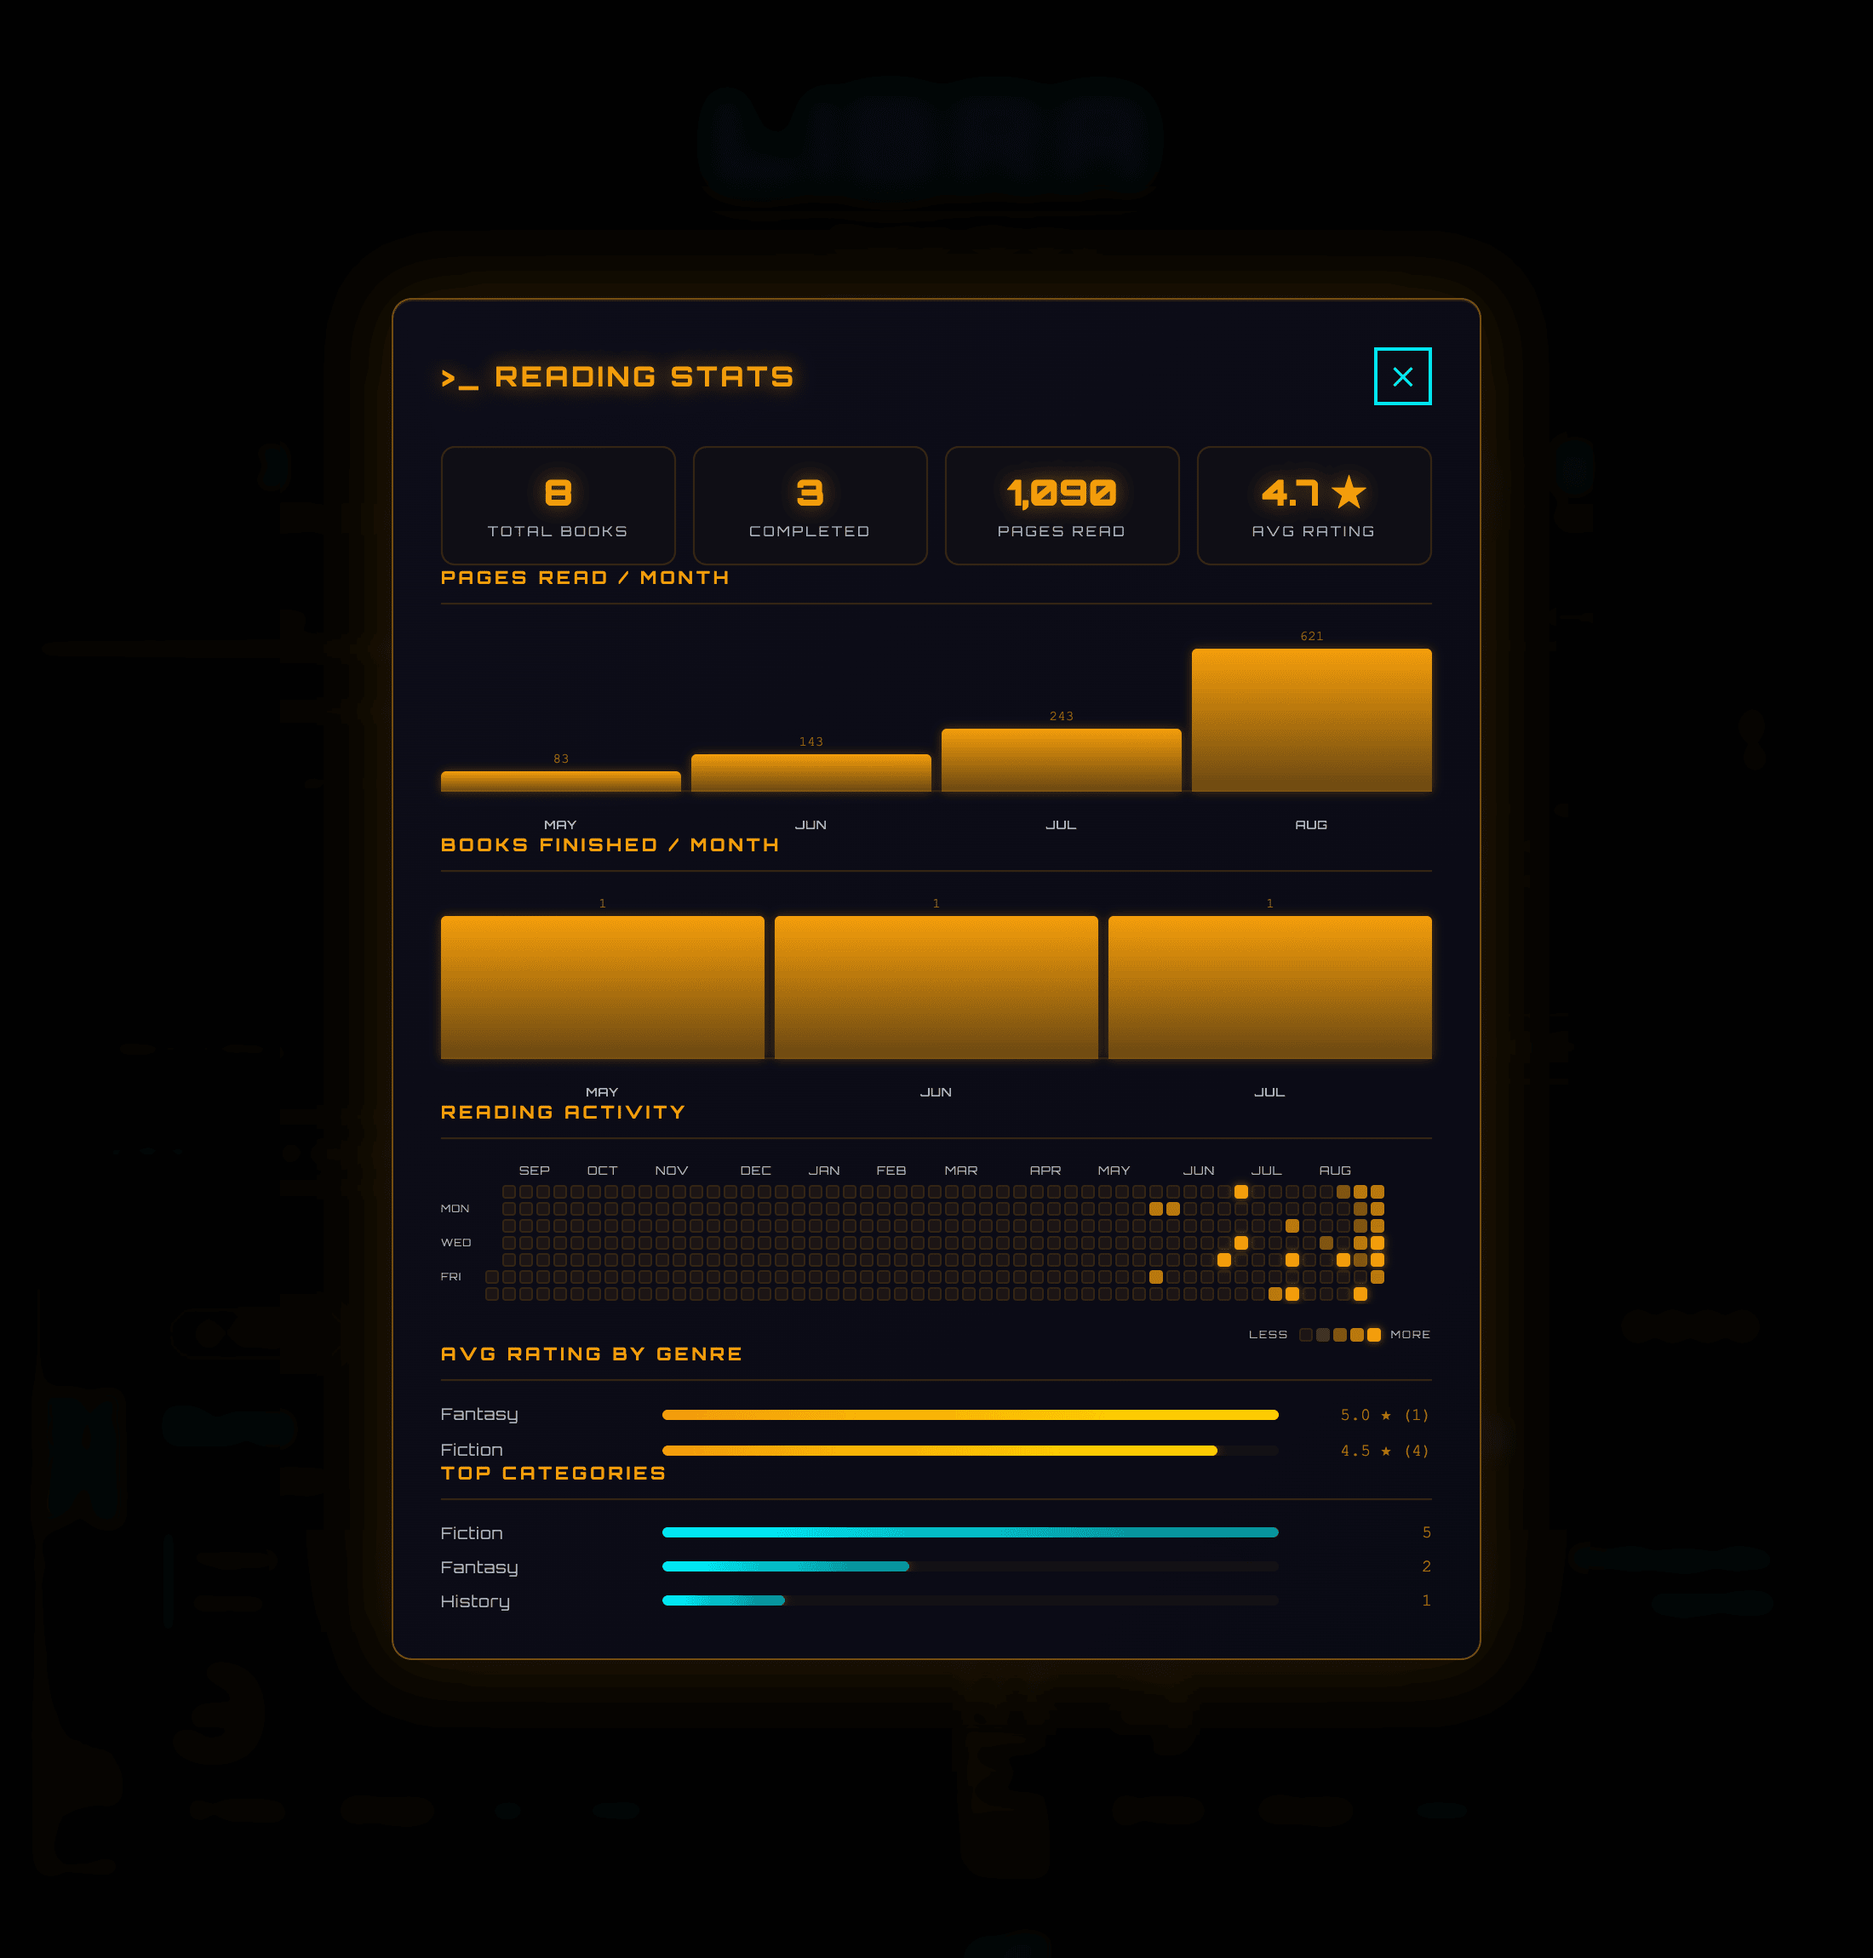
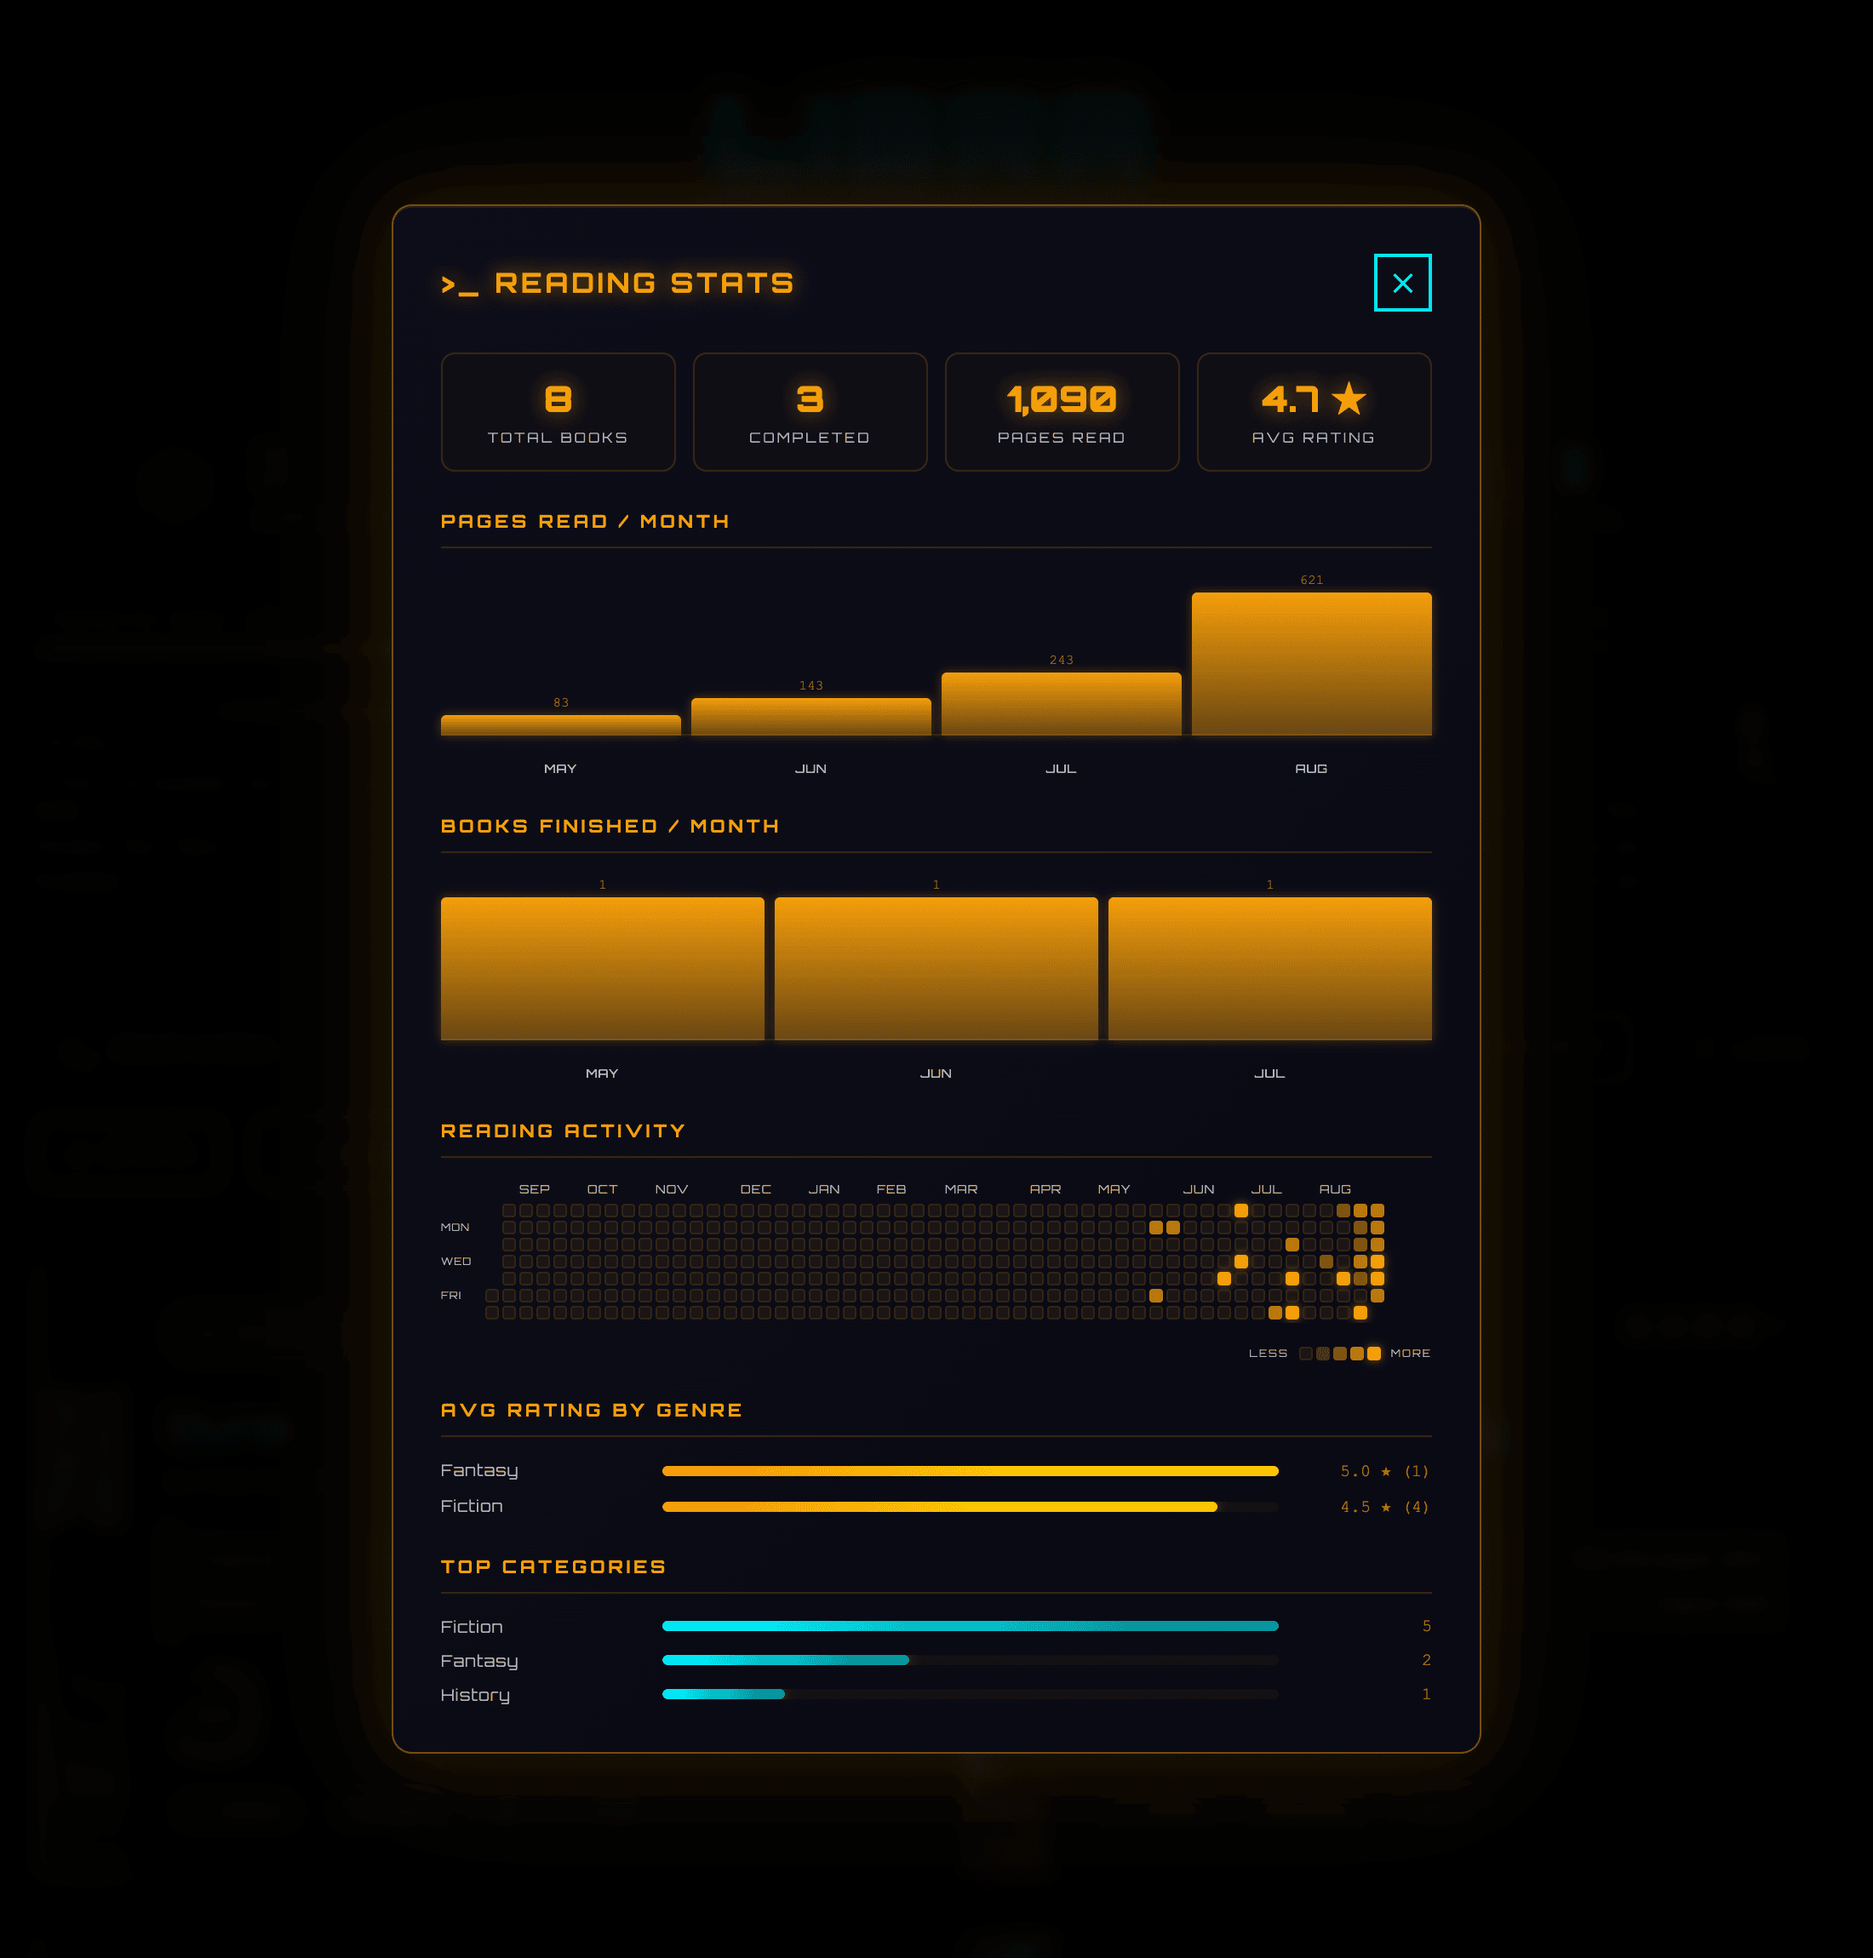
fix(stats): space out panel sections, changelog and version for 0.5.5
#stats-content had no styling at all, so its six sections were plain block
children with a 0px gap between them — measured 0 across all five boundaries.
Each title landed flush against the chart above it, worst under the bar
charts, whose month labels sit at the very bottom edge of their box.

Made it a flex column with a 22px gap: wider than the 14px inside a section,
so a section break reads as the larger one. Reshot the stats screenshot to
match, since the committed image showed the old crowding.

Also cuts 0.5.5, covering this and the cover-redirect CSP fix in #84.

diff --git a/css/stats.css b/css/stats.css
@@ -87,6 +87,18 @@
 }
 
 /* ── Sections ── */
+
+/* Sections were plain block children with nothing between them, so each title
+   landed flush against the chart above it — most visibly under the bar charts,
+   whose month labels sit at the very bottom edge of their box. The gap is
+   wider than the 14px inside a section, so a section break reads as the
+   larger one. */
+#stats-content {
+  display: flex;
+  flex-direction: column;
+  gap: 22px;
+}
+
 .stats-section {
   display: flex;
   flex-direction: column;

diff --git a/sw.js b/sw.js
@@ -1,4 +1,4 @@
-const CACHE = 'libra-v69';
+const CACHE = 'libra-v70';
 
 const ASSETS = [
   '/',

diff --git a/README.md b/README.md
@@ -14,7 +14,7 @@
 ![Supabase](https://img.shields.io/badge/Supabase-3ECF8E?style=for-the-badge&logo=supabase&logoColor=white)
 ![PWA](https://img.shields.io/badge/PWA-5A0FC8?style=for-the-badge&logo=pwa&logoColor=white)
 ![Vercel](https://img.shields.io/badge/Vercel-000000?style=for-the-badge&logo=vercel&logoColor=white)
-![Version](https://img.shields.io/badge/Version-0.5.4-00f2ff?style=for-the-badge)
+![Version](https://img.shields.io/badge/Version-0.5.5-00f2ff?style=for-the-badge)
 ![Status](https://img.shields.io/badge/Status-Active-success?style=for-the-badge)
 ![License](https://img.shields.io/badge/License-MIT-blue?style=for-the-badge)
 
@@ -207,6 +207,21 @@ Then open `index.html` — no build step needed for the frontend.
 ---
 
 ## 📜 Changelog
+
+### v0.5.5 — Cover art actually loads
+
+The headline fix started as a request to replace the stale screenshots. Taking them is what exposed it.
+
+**Fixed**
+- **Most book covers were blocked in production.** `covers.openlibrary.org` 302-redirects to `archive.org`, and CSP checks *every* URL in a redirect chain against `img-src` — not just the one the page requested. `archive.org` was not listed, so only the minority of covers Open Library serves directly ever loaded. That is why some books had art and most did not: it looked like patchy Open Library data rather than a bug here. `img-src` now lists both hops. Measured 8/8 covers loading with them and 2/8 without, same page and same ids ([#84](https://github.com/laddtnov/libra/pull/84))
+- **The detail modal drew two thumbnails.** Its placeholder ships with the `hidden` attribute when a cover exists, but `.detail-cover-placeholder` sets `display: flex`, which outranks the browser's own `[hidden] { display: none }` — so a book whose cover loaded rendered the cover *and* an empty box beside it. It stayed invisible while covers were blocked, because then the image was removed and the placeholder was meant to show; fixing the CSP exposed it. Same class as the card fix in [v0.5.4](https://github.com/laddtnov/libra/releases/tag/v0.5.4), in the one place that release did not reach ([#84](https://github.com/laddtnov/libra/pull/84))
+- **Stats sections ran into each other.** `#stats-content` had no styling at all, so its six sections were plain block children with a 0px gap and each title landed flush against the chart above it — worst under the bar charts, whose month labels sit at the very bottom edge of their box
+
+**Changed**
+- Screenshots refreshed. The two at the repo root dated from May, before the icon, the unified button styling, the heatmap, continue reading and the cover spines. Replaced with four 2x captures under `assets/screenshots/` — desktop, book detail, stats and mobile — at roughly a third of the bytes the old pair alone took. `og:image` and `twitter:image` follow the new path ([#84](https://github.com/laddtnov/libra/pull/84))
+
+**Known trade-off**
+- `archive.org` hosts user-uploaded content, so `img-src` now trusts a host this project does not control. The alternative is proxying covers through our own origin, which means an image endpoint and a cache — not worth it for a thumbnail. Recorded as a deliberate call, not an oversight
 
 ### v0.5.4 — Continue reading, and one cover per book
 
